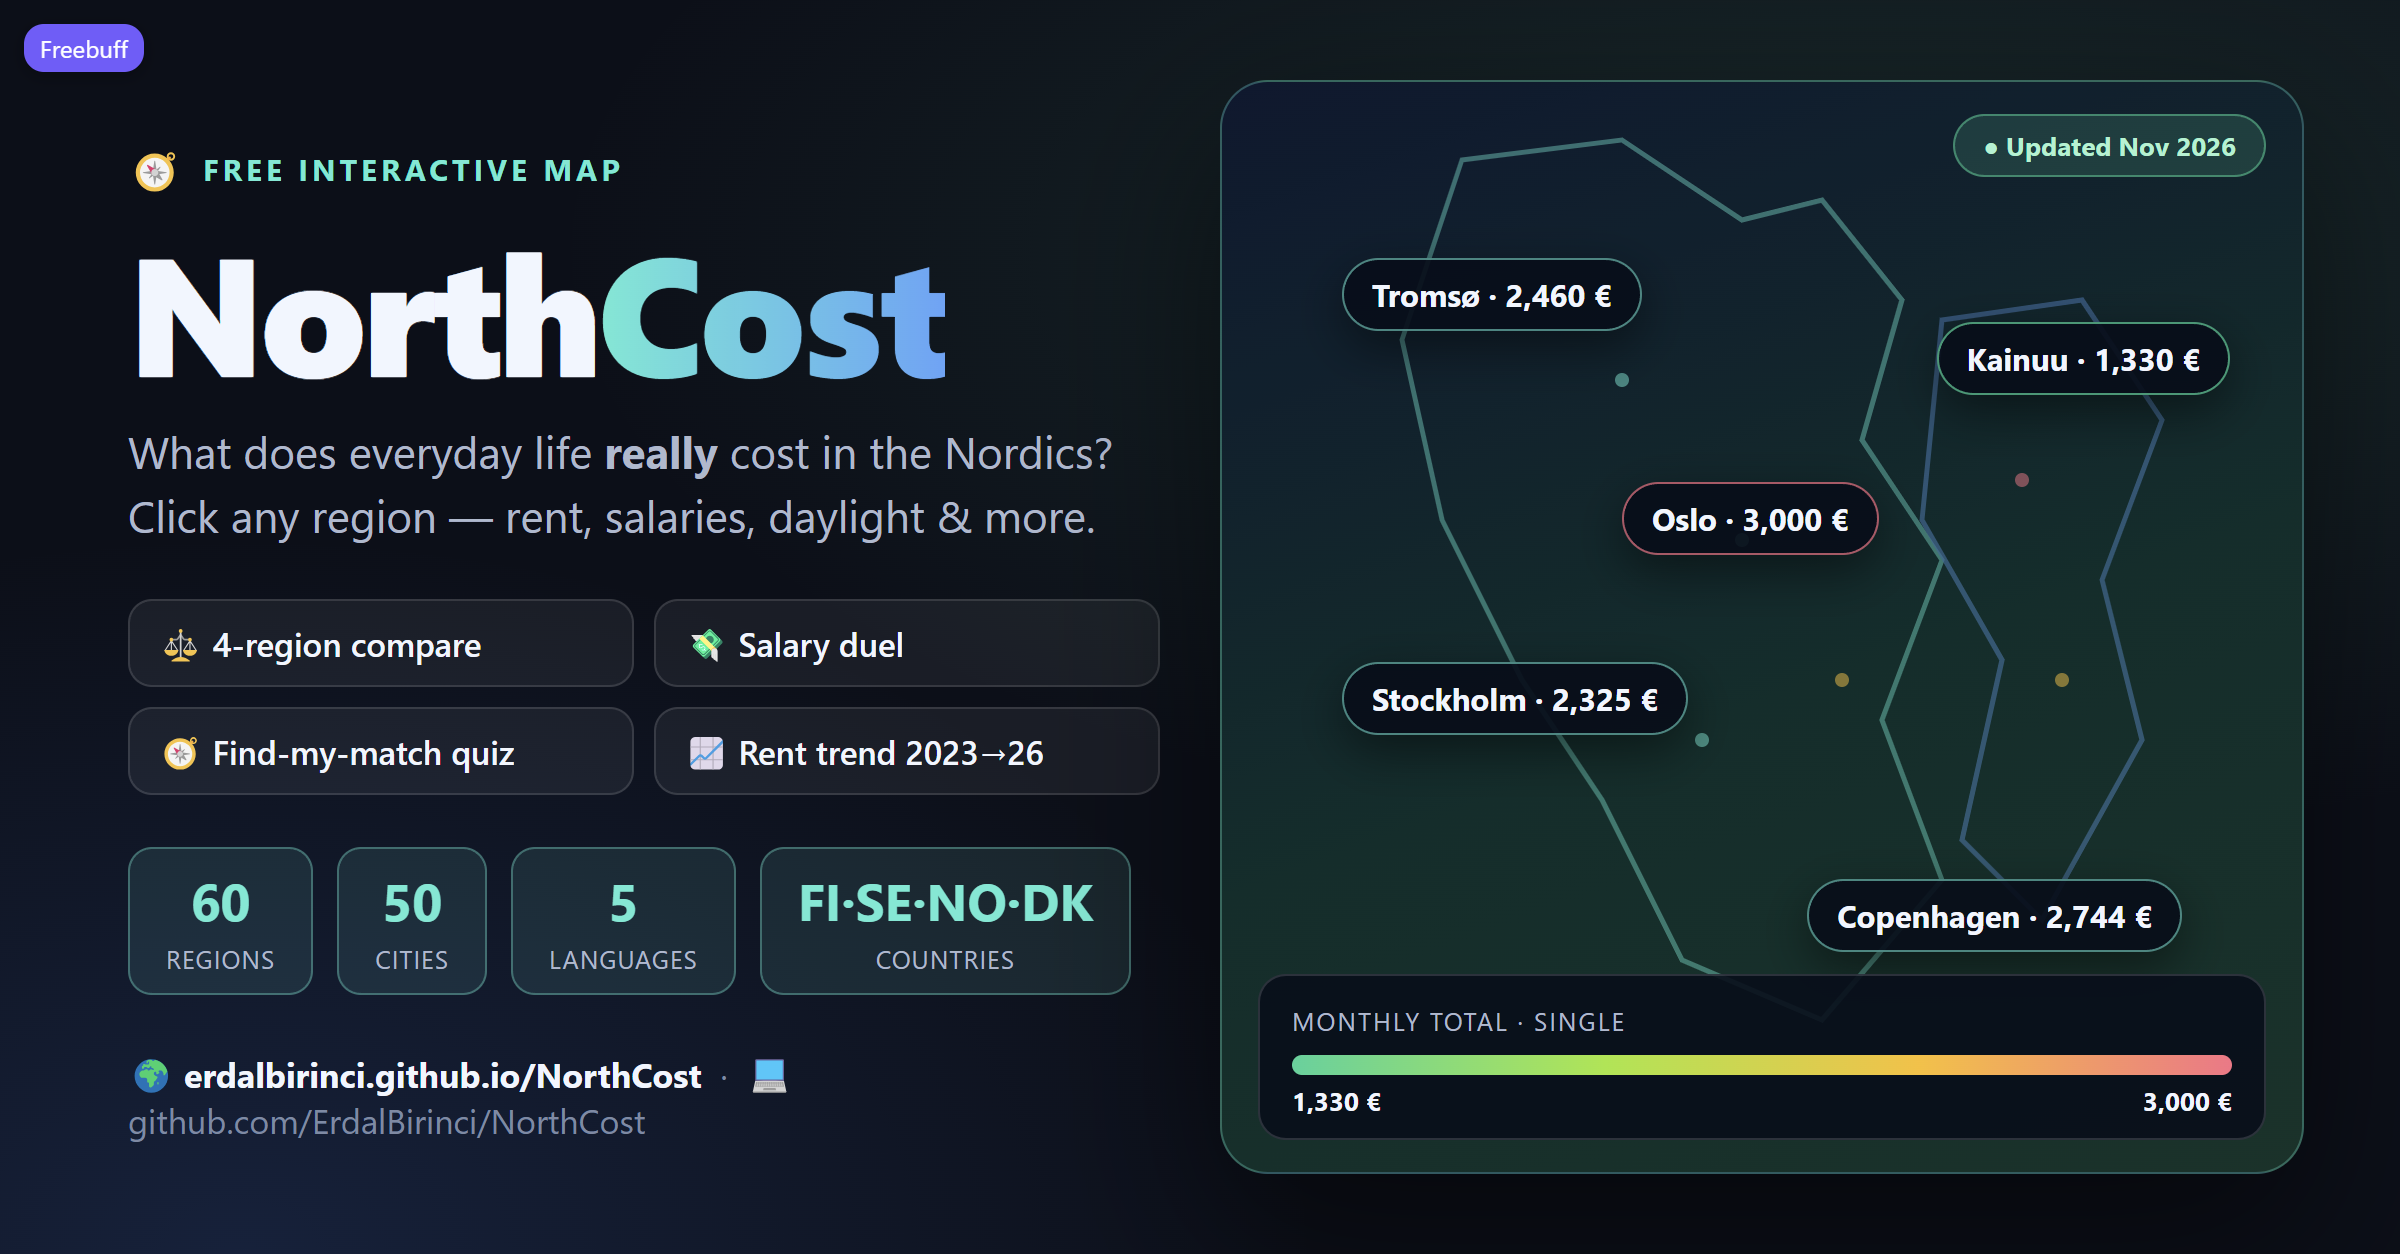
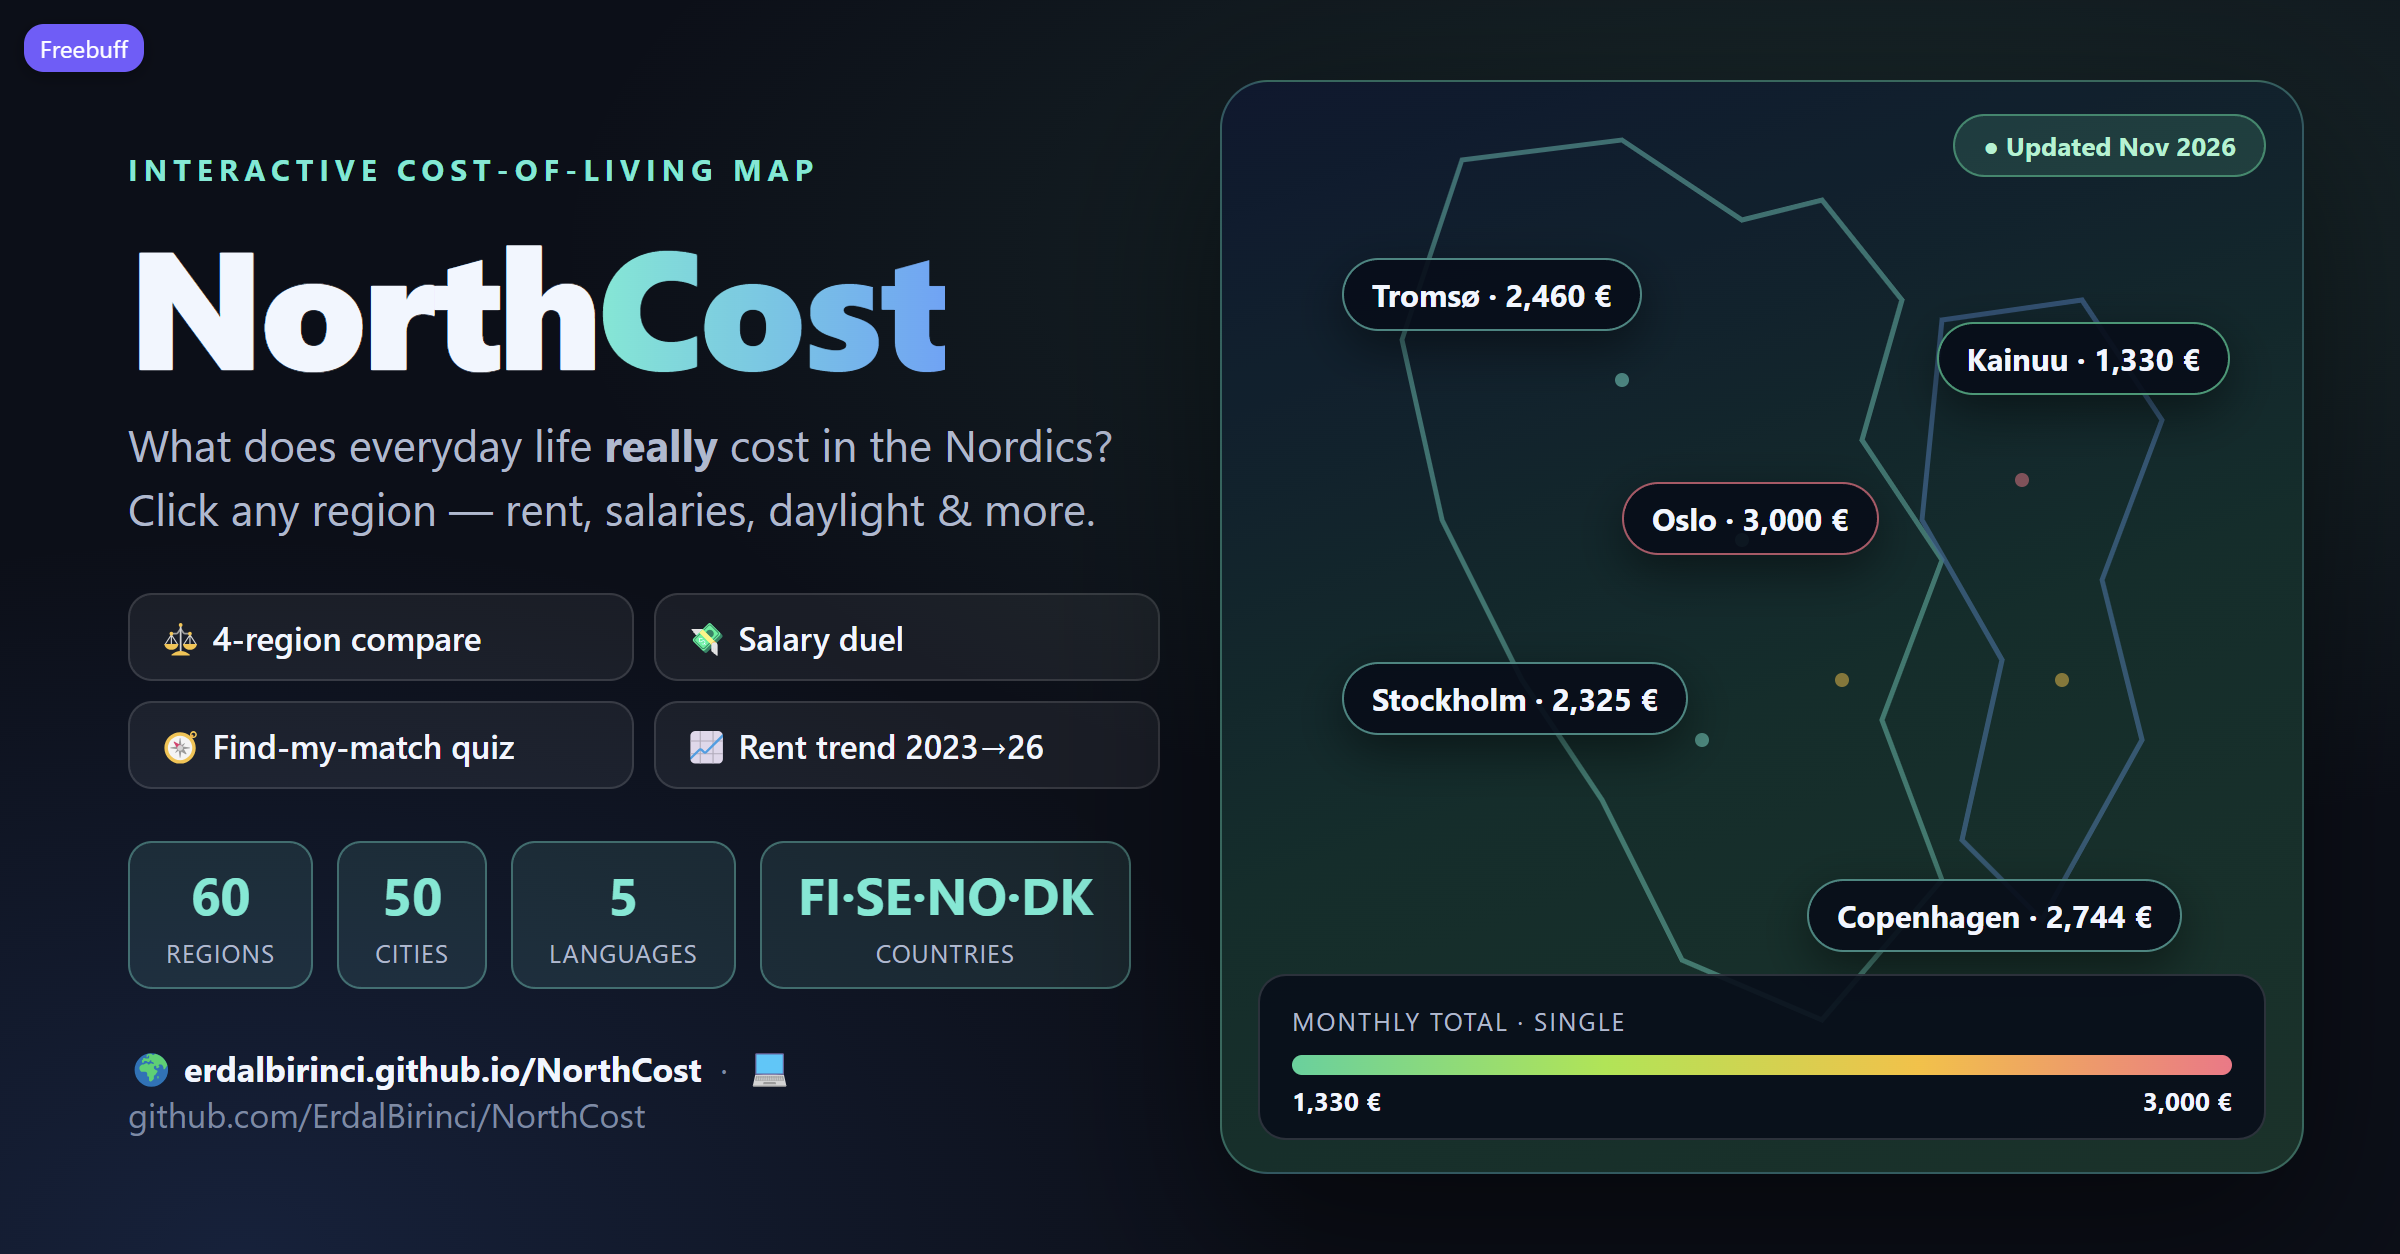
Promo visual: remove badge pill, plain eyebrow text

diff --git a/docs/promo/linkedin-promo.html b/docs/promo/linkedin-promo.html
@@ -7,8 +7,7 @@
   body { width: 1200px; height: 627px; font-family: 'Segoe UI', Inter, -apple-system, Arial, sans-serif; background: #0b0f19; color: #f2f6ff; overflow: hidden; }
   .card { position: relative; width: 1200px; height: 627px; background: radial-gradient(1100px 500px at 78% 20%, rgba(52,211,153,.14), transparent 60%), radial-gradient(900px 600px at 10% 100%, rgba(59,130,246,.16), transparent 60%), #0b0f19; display: flex; }
   .left { width: 600px; padding: 64px 20px 48px 64px; display: flex; flex-direction: column; justify-content: center; }
-  .badge { display: inline-flex; align-items: center; gap: 8px; font-size: 15px; font-weight: 700; letter-spacing: 2px; color: #5eead4; text-transform: uppercase; margin-bottom: 14px; }
-  .badge::before { content: '🧭'; font-size: 20px; }
+  .badge { display: block; font-size: 15px; font-weight: 700; letter-spacing: 3px; color: #5eead4; text-transform: uppercase; margin-bottom: 14px; }
   h1 { font-size: 84px; line-height: 1; font-weight: 800; letter-spacing: -2px; }
   h1 span { background: linear-gradient(90deg, #5eead4, #60a5fa); -webkit-background-clip: text; background-clip: text; color: transparent; }
   .tag { font-size: 22px; color: #aeb9cf; margin: 14px 0 26px; line-height: 1.45; }
@@ -36,7 +35,7 @@
 <body>
 <div class="card">
   <div class="left">
-    <div class="badge">Free interactive map</div>
+    <div class="badge">Interactive cost-of-living map</div>
     <h1>North<span>Cost</span></h1>
     <p class="tag">What does everyday life <b>really</b> cost in the Nordics? Click any region — rent, salaries, daylight &amp; more.</p>
     <div class="feats">
